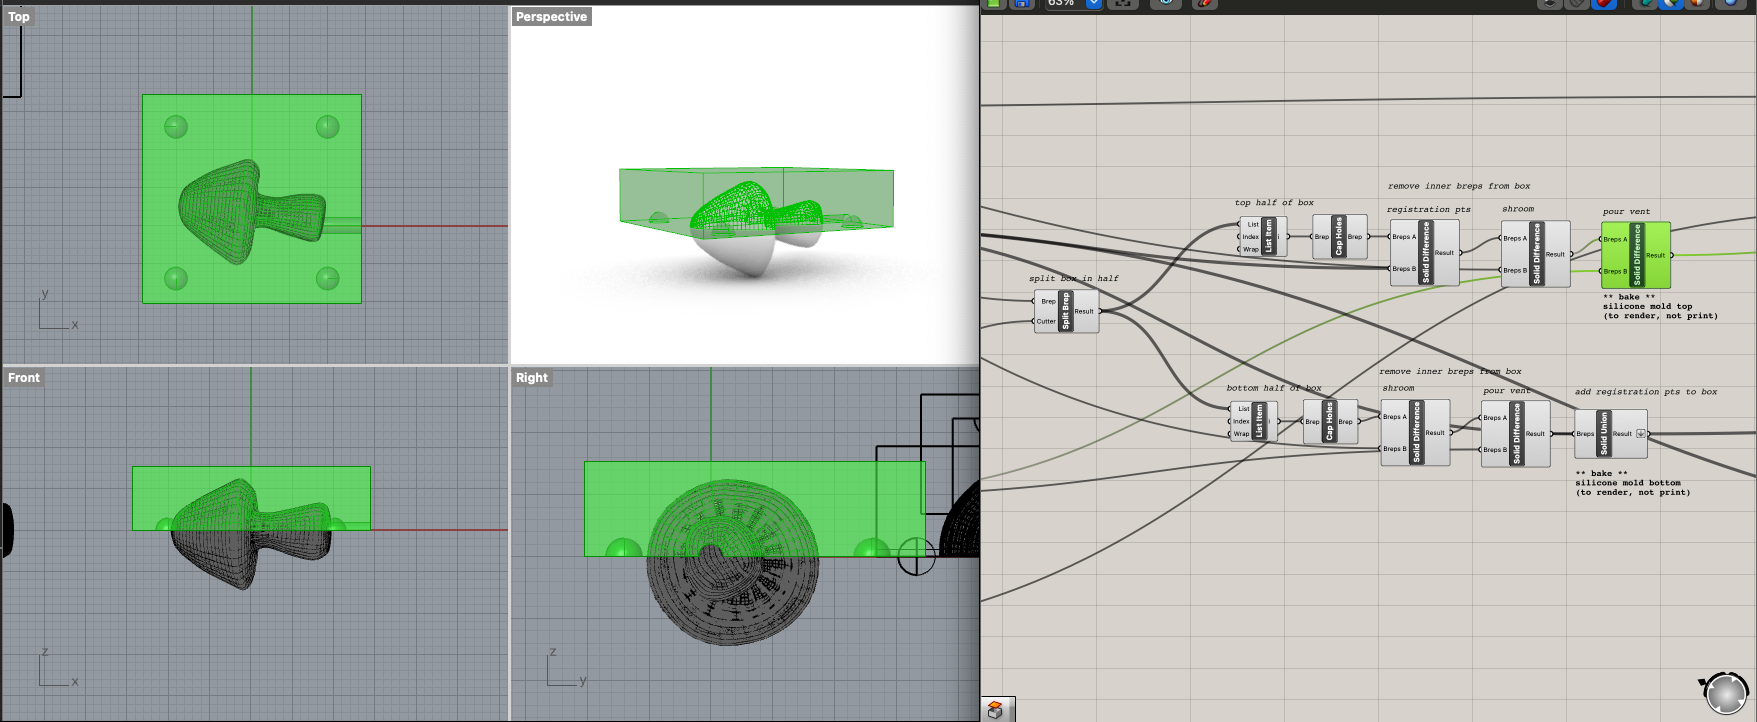
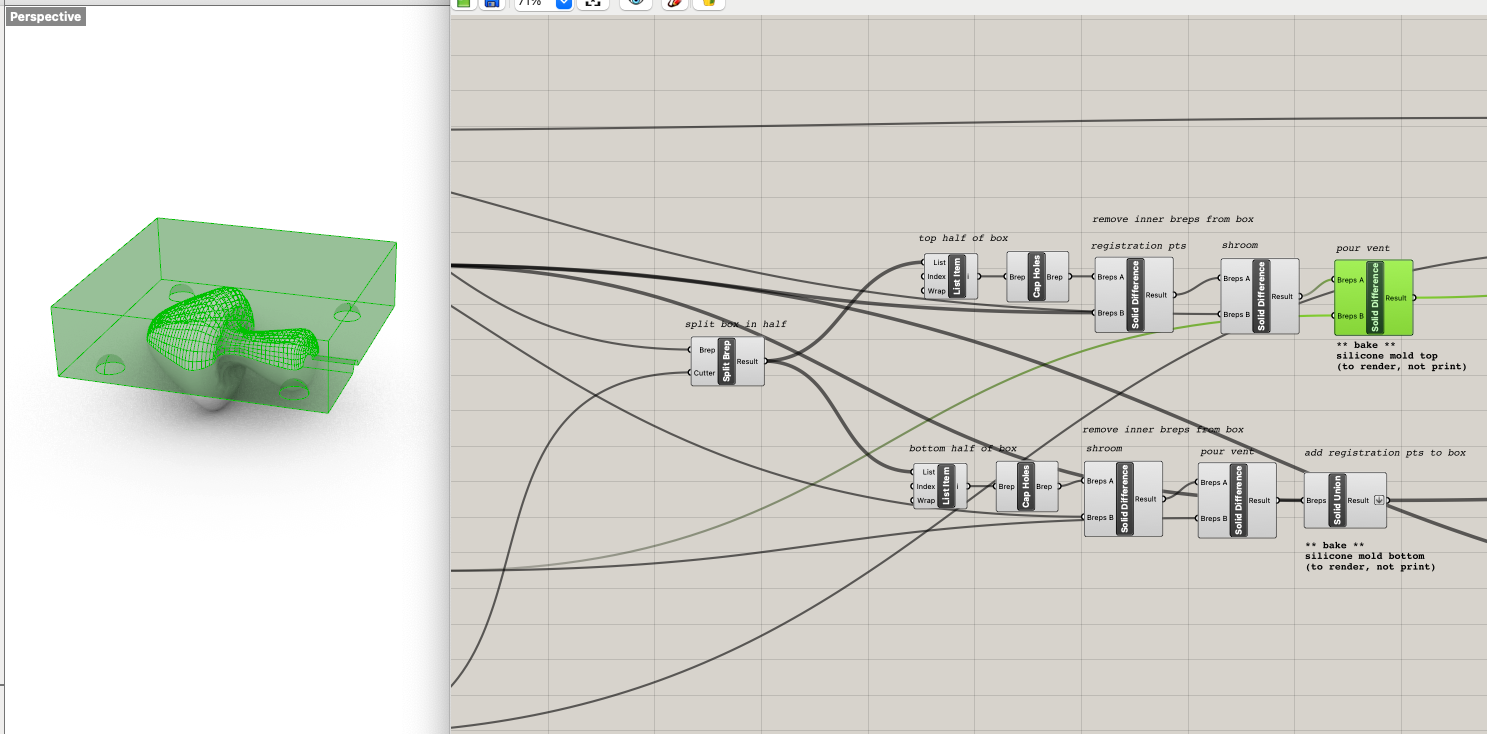
Improved screenshots for assignment 6

diff --git a/assignment6.html b/assignment6.html
@@ -54,7 +54,7 @@
 
             <p>Ta daaa! It fit! Let there be light!</p>
 
-            <img src="img/a6/glamourlamp.jpg" class="center" style="width:100%;">
+            <img src="img/a6/lamp_glam.jpg" class="center" style="width:100%;">
 
             <video width="100%" controls class="center" style="width:100%;">
                 <source src="img/a6/lamp_assembly.mov" type="video/mp4">
@@ -89,8 +89,10 @@
 
             <p>In Grasshopper, I pointed a brep towards the mushroom in Rhino, created a box around it, then constructed and arranged registration points (4 spheres), a pour vent (solid cylinder extending from the shroom stem to the edge of the box), and a cutting plane to use in later split operations.</p>
 
+            <img src="img/a6/gh_mold_setbrep.png" class="center" style="width:100%;">
             <img src="img/a6/gh_mold_s_box.png" class="center" style="width:100%;">
-            <img src="img/a6/gh_mold_s_elementsbeforesplit.png" class="center" style="width:100%;">
+            <img src="img/a6/gh_mold_s_innards.png" class="center" style="width:100%;">
+            <img src="img/a6/gh_mold_s_splitplane.png" class="center" style="width:100%;">
 
             <p>I then split that box in half with the cutting plane and created the top and bottom halves of the silicone mold. For both, half of the shroom and the pour vent needed to be removed. For the top, the registration points needed to be removed, while for the bottom, they needed to be added, so that each side of the mold could lock into the other when the plaster is setting.</p>
 
@@ -101,18 +103,18 @@
 
             <img src="img/a6/gh_mold_s_final.jpg" class="center">
 
-            <p>Then I needed to actually make the mold that I'd cast these in. To do so, I scaled up the original silicone mold box, split it in half, then aligned each half's silicone mold model to face the origin, and took the boolean difference of the silicone model from the larger half box. For the bottom half, I had to take a separate boolean difference with the registration points because of surface things, and I flipped it over just to avoid an extra rotational step in Cura later. I've commented what's happening at each step and where the baking needs to happen.</p>
+            <p>Then I needed to actually make the mold that I'd cast these in. To do so, I scaled up the original silicone mold box, split it in half, then aligned each half's silicone mold model to face the origin, and took the boolean difference of the silicone model from the larger half box. For the bottom half, I had to take a separate boolean difference with the registration points because of surface things. For the top half, I flipped it over just to avoid an extra rotational step in Cura later. I've commented what's happening at each step and where the baking needs to happen.</p>
 
             <img src="img/a6/gh_mold_p_box.png" class="center" style="width:100%;">
-            <img src="img/a6/gh_mold_p_topfinal.png" class="center" style="width:100%;">
             <img src="img/a6/gh_mold_p_bottom.png" class="center" style="width:100%;">
-            <img src="img/a6/gh_mold_p_bottomfinal.png" class="center" style="width:100%;">
+            <img src="img/a6/gh_mold_p_top.png" class="center" style="width:100%;">
+            <img src="img/a6/gh_mold_p_topflip.png" class="center" style="width:100%;">
 
             <p>All together now!! The full set of what will exist in many a medium!</p>
 
             <img src="img/a6/gh_mold_final.jpg" class="center">
 
-            <p>I exported the mold as a STL and tried slicing it in Cura and printing it, but I made it a liittle too small and can't pick up the silicone powder until class on Tuesday anyway (the joys of covid), so I'm going to wait until then to gather any printing recs before proceeding. Thus ends part one of molding! Next week I'll get crackin on casting the silicone mold and plaster shrooms.</p>
+            <p>I exported the mold as an STL and tried slicing it in Cura and printing it, but I made it a liittle too small and can't pick up the silicone powder until class on Tuesday anyway (the joys of covid), so I'm going to wait until then to gather any printing recs before proceeding. Thus ends part one of molding! Next week I'll get crackin on casting the silicone mold and plaster shrooms.</p>
 
             <img src="img/a6/cura_mold.png" class="center" style="width:100%;">
 
